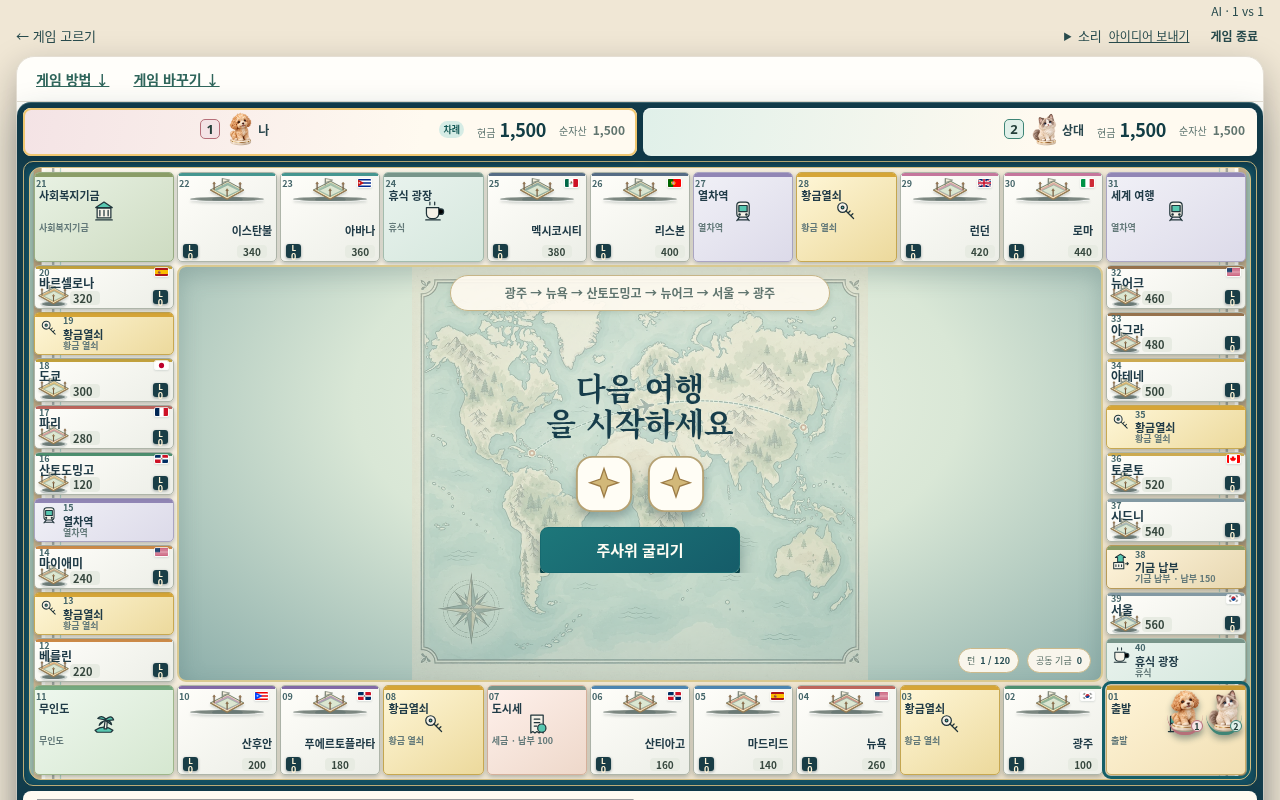
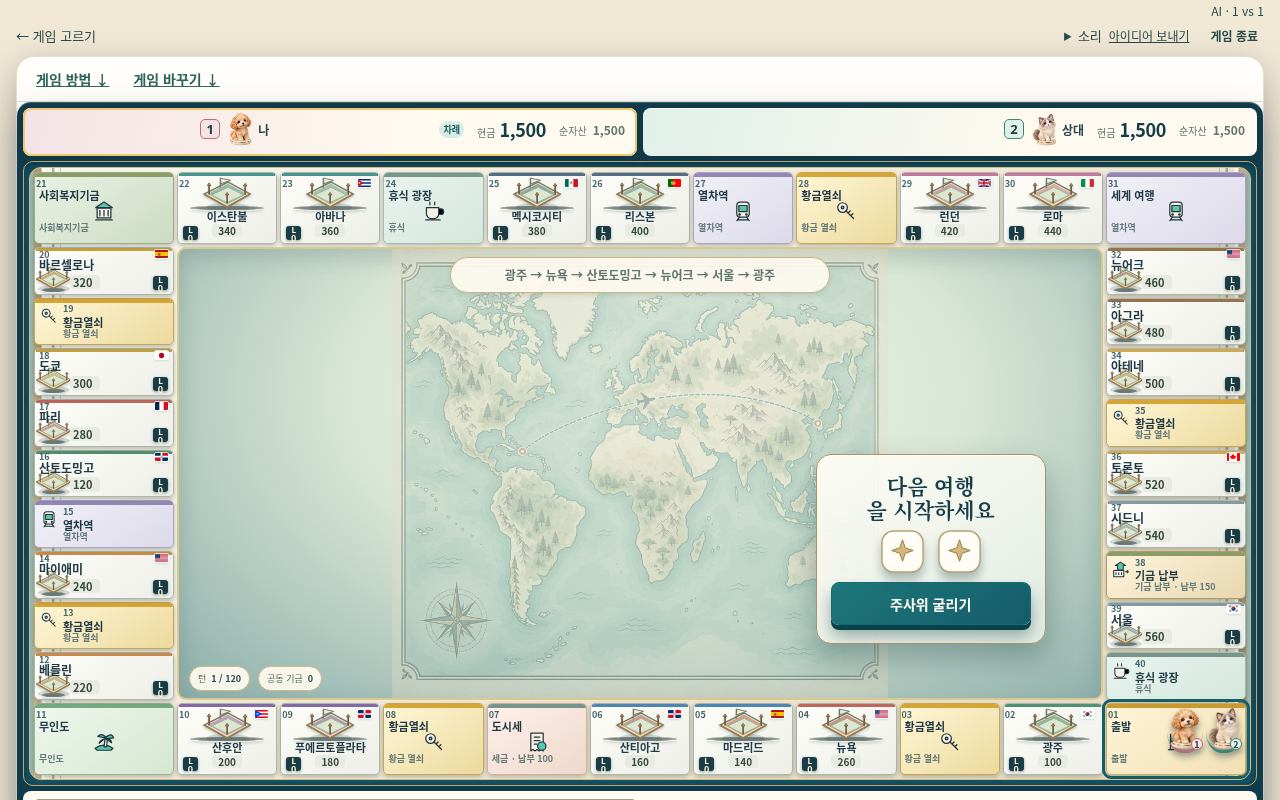
Dock dice on map and prepare equalized 32-cell board

Changed region(s): [[0.0, 0.2188, 1.0, 0.9688]]

diff --git a/src/app/marble-stage-redesign.css b/src/app/marble-stage-redesign.css
@@ -35,6 +35,16 @@
   background:#99b7aa url('/images/marble/backing-board.svg') center/cover;
   border-color:#d4bd81;
 }
+:is(.marble-premium,.marble-native-team).is-modern .mp-board-grid--32 {
+  width:min(100%,calc(100svh * 1.39),1220px); max-width:none;
+  height:clamp(560px,calc(var(--mp-available-height,650px) - 61px),710px);
+  margin:auto; aspect-ratio:auto; gap:3px; padding:4px;
+  grid-template-columns:clamp(105px,12%,135px) repeat(7,minmax(0,1fr)) clamp(105px,12%,135px);
+  grid-template-rows:clamp(68px,11%,88px) repeat(7,minmax(0,1fr)) clamp(68px,11%,88px);
+  background:#99b7aa url('/images/marble/backing-board.svg') center/cover;
+  border-color:#d4bd81;
+}
+:is(.marble-premium,.marble-native-team).is-modern .mp-board-grid--32 .mp-board-center { grid-column:2/9; grid-row:2/9; }
 :is(.marble-premium,.marble-native-team).is-modern .mp-tile { border-radius:5px; padding:2px 4px; box-shadow:inset 0 1px #fff,0 2px 4px #0c273343; }
 :is(.marble-premium,.marble-native-team).is-modern .mp-tile[data-marble-owner] { border-width:1px; }
 :is(.marble-premium,.marble-native-team).is-modern .mp-tile[data-marble-owner]:not([data-marble-owner="bank"]) { box-shadow:inset 0 -4px var(--mp-owner-color),0 2px 4px #0c273343; }
@@ -92,6 +102,7 @@
 }
 @media (max-width:1099px) {
   .marble-premium.is-modern .mp-board-grid--40 { min-width:780px; }
+  .marble-premium.is-modern .mp-board-grid--32 { min-width:780px; }
   .marble-premium.is-modern .mp-board-panel { overflow:auto; }
 }
 @media (max-width:680px) {
@@ -128,6 +139,7 @@
 .marble-native-team.marble-team-board .mt-bank dd { font-size:12px; }
 .marble-native-team.marble-team-board .mt-banks { width:100%; max-width:none; gap:6px; }
 .marble-native-team.marble-team-board .mp-board-grid--40 { width:100%; max-width:none; height:clamp(440px,calc(100svh - 235px),680px); grid-template-columns:clamp(105px,13%,140px) repeat(9,minmax(0,1fr)) clamp(105px,13%,140px); grid-template-rows:clamp(70px,13%,92px) repeat(9,minmax(0,1fr)) clamp(70px,13%,92px); gap:3px; padding:4px; background:#99b7aa url('/images/marble/backing-board.svg') center/cover; border-color:#d4bd81; }
+.marble-native-team.marble-team-board .mp-board-grid--32 { height:clamp(520px,calc(100svh - 195px),710px); }
 .marble-native-team.marble-team-board .mp-center-stage { bottom:13%; }
 .marble-native-team.marble-team-board .mp-center-stage.mp-stage--roll { bottom:25%; }
 .marble-native-team.marble-team-board .mp-board-center .mp-ownership-key { display:none; }
@@ -139,6 +151,7 @@
   .marble-native-team.marble-team-board .mt-play-surface { min-width:0; }
   .marble-native-team.marble-team-board .mp-board-panel { min-width:0; max-width:100%; box-sizing:border-box; overflow:auto; }
   .marble-native-team.marble-team-board .mp-board-grid--40 { min-width:780px; }
+  .marble-native-team.marble-team-board .mp-board-grid--32 { min-width:780px; }
 }
 @media (max-width:680px) {
   .marble-native-team.marble-team-board .mt-banks { grid-template-columns:1fr 1fr; }
@@ -178,8 +191,8 @@
 .marble-native-team.marble-team-board .mt-bank.is-current { background:#fff0c8; }
 .marble-native-team.marble-team-board .mt-bank-A { background:#e6f2e9; }
 .marble-native-team.marble-team-board .mt-bank-B { background:#f5e8eb; }
-.marble-native-team.marble-team-board .mp-board-grid--40 { grid-template-rows:90px repeat(9,minmax(0,1fr)) 90px; }
-.marble-premium.is-modern .mp-board-grid--40 { grid-template-rows:90px repeat(9,minmax(0,1fr)) 90px; }
+.marble-native-team.marble-team-board .mp-board-grid--40 { grid-template-rows:72px repeat(9,minmax(0,1fr)) 72px; }
+.marble-premium.is-modern .mp-board-grid--40 { grid-template-rows:72px repeat(9,minmax(0,1fr)) 72px; }
 :is(.marble-premium,.marble-native-team).is-modern .mp-property-tile-copy .mp-tile-name { overflow-wrap:anywhere; word-break:normal; }
 :is(.marble-premium,.marble-native-team).is-modern .mp-tile--horizontal .mp-property-tile-copy .mp-tile-name { max-height:2.15em; overflow:hidden; }
 /* On the narrow edges, the name owns its own full-width row. */
@@ -195,6 +208,11 @@
 :is(.marble-premium,.marble-native-team).is-modern .mp-tile--horizontal .mp-property-tile-art { max-height:48%; }
 :is(.marble-premium,.marble-native-team).is-modern .mp-property-tile-art .mp-property-art-image { transform:scale(1.22); transform-origin:center bottom; }
 :is(.marble-premium,.marble-native-team).is-modern .mp-tile--horizontal .mp-property-tile-art .mp-property-art-image { transform:scale(1.72); }
+:is(.marble-premium,.marble-native-team).is-modern .mp-tile--horizontal.mp-kind-property .mp-property-tile-view { display:flex; flex-direction:column; align-items:stretch; justify-content:center; gap:1px; }
+:is(.marble-premium,.marble-native-team).is-modern .mp-tile--horizontal.mp-kind-property .mp-property-tile-art { flex:0 0 20px; height:20px; max-height:20px; }
+:is(.marble-premium,.marble-native-team).is-modern .mp-tile--horizontal.mp-kind-property .mp-property-tile-copy { display:flex; flex-direction:column; align-items:center; justify-content:flex-end; flex:0 0 auto; height:auto; min-height:0; gap:1px; }
+:is(.marble-premium,.marble-native-team).is-modern .mp-tile--horizontal.mp-kind-property .mp-property-tile-copy .mp-tile-name { flex:none; max-height:23px; line-height:1.05; }
+:is(.marble-premium,.marble-native-team).is-modern .mp-tile--horizontal.mp-kind-property .mp-property-tile-copy .mp-tile-economy { flex:none; height:14px; line-height:14px; }
 :is(.marble-premium,.marble-native-team).is-modern :is(.mp-tile--west,.mp-tile--east) .mp-property-tile-art .mp-property-art-image { transform:scale(1.4); }
 :is(.marble-premium,.marble-native-team).is-modern .mp-center-stage.mp-stage--moving { bottom:28%; display:flex; justify-content:center; width:min(52%,360px); padding:12px; border:0; background:#fff9ebdb; box-shadow:0 9px 20px #16383f35; text-align:center; }
 :is(.marble-premium,.marble-native-team).is-modern .mp-moving-status { display:grid; justify-items:center; gap:8px; }
@@ -215,4 +233,16 @@
 @media (max-width:680px) {
   :is(.marble-premium,.marble-native-team).is-modern .mp-center-stage.mp-stage--roll,
   :is(.marble-premium,.marble-native-team).is-modern .mp-center-stage.mp-stage--moving { right:10px; bottom:10px; left:10px; width:auto; }
+}
+@media (min-width:681px) {
+  :is(.marble-premium,.marble-native-team).is-modern .mp-center-stage.mp-stage--roll {
+    right:6%; bottom:12%; left:auto; width:230px; max-width:36%; min-height:190px; gap:7px;
+    padding:14px; transform:none; border:1px solid #ac925f; border-radius:15px;
+    background:linear-gradient(145deg,#fffdf5ef,#e6f0e7e8); box-shadow:0 14px 30px #143b4255,inset 0 1px #fff;
+  }
+  :is(.marble-premium,.marble-native-team).is-modern .mp-center-stage.mp-stage--roll > h2 { max-width:none; font-size:21px; }
+  :is(.marble-premium,.marble-native-team).is-modern .mp-center-stage.mp-stage--roll .mp-die { width:47px; height:47px; }
+  :is(.marble-premium,.marble-native-team).is-modern .mp-center-stage.mp-stage--roll .mp-action-primary,
+  .marble-native-team.marble-team-board .mp-center-stage.mp-stage--roll .mt-primary { min-width:0; width:100%; min-height:43px; font-size:14px; }
+  :is(.marble-premium,.marble-native-team).is-modern .mp-map-hud { right:auto; left:10px; }
 }

diff --git a/src/app/MarbleCityTile.tsx b/src/app/MarbleCityTile.tsx
@@ -17,8 +17,9 @@ export function MarbleCityTile({ tile, index, tileCount, position, language, rou
 }) {
   const kind=String(tile.kind??'rest'), name=String(record(tile.name)[language]??record(tile.name).ko??''), group=String(tile.group??'');
   const owner=isSeat(tile.owner)?tile.owner:null;
-  const edge=tileCount===40?(position[1]===1||position[1]===11?'mp-tile--horizontal':position[0]===1?'mp-tile--west':'mp-tile--east'):'';
-  const isKey=modern&&[2,7,12,18,27,34].includes(index);
+  const boardSide=tileCount===32||tileCount===40?tileCount/4+1:0;
+  const edge=boardSide?(position[1]===1||position[1]===boardSide?'mp-tile--horizontal':position[0]===1?'mp-tile--west':'mp-tile--east'):'';
+  const isKey=modern&&kind==='event';
   const symbol=isKey||kind==='event'?'key':kind==='fund-deposit'?'fund-pay':kind;
   const art=cityArtNames[String(record(tile.name).ko??'')],flag=kind==='property'?cityFlag(record(tile.name)):null;
   const building=buildingName(num(tile.houses),language,modern);
@@ -26,7 +27,7 @@ export function MarbleCityTile({ tile, index, tileCount, position, language, rou
     ? `${name}, ${owner?copy(language,`소유자 ${seatLabel(owner)}`,`Dueño ${seatLabel(owner)}`):copy(language,'미소유','Sin dueño')}, ${copy(language,`매입 ${num(tile.price)}, 임대 ${rentValue(tile,modern)}`,`compra ${num(tile.price)}, renta ${rentValue(tile,modern)}`)}${building?`, ${building}`:''}${record(tile.rentModifiers).festival?copy(language,', 도시 축제: 다음 상대 방문 통행료 2배, 1회',', Festival: próxima visita rival, renta doble, un uso'):''}${record(tile.rentModifiers).blackout?copy(language,', 정전: 다음 카드 소유자 방문 통행료 절반, 1회',', Apagón: próxima visita del titular, media renta, un uso'):''}`
     : `${name}, ${specialNames[kind]?.[language]??''}`;
   const seats=atSeats.filter(seat=>seat!==movingSeat);
-  return <article className={`mp-tile ${edge} mp-kind-${kind} ${isKey?'is-key':''} ${group?`mp-group-${group}`:''} ${owner?`is-owned-${owner}`:''} ${atSeats.length||movingSeat?'has-player':''} ${movingSeat?'is-moving':''} ${changed?'is-changed':''} ${pending?'is-pending':''} ${selected?'is-selected':''}`} style={{gridColumn:position[0],gridRow:position[1]} as CSSProperties} role="listitem" aria-label={aria} data-marble-owner={kind==='property'?owner??'bank':undefined} data-mp-edge={tileCount===40?`${position[0]===1?'left':position[0]===11?'right':''}${position[1]===1?'top':position[1]===11?'bottom':''}`:undefined}>
+  return <article className={`mp-tile ${edge} mp-kind-${kind} ${isKey?'is-key':''} ${group?`mp-group-${group}`:''} ${owner?`is-owned-${owner}`:''} ${atSeats.length||movingSeat?'has-player':''} ${movingSeat?'is-moving':''} ${changed?'is-changed':''} ${pending?'is-pending':''} ${selected?'is-selected':''}`} style={{gridColumn:position[0],gridRow:position[1]} as CSSProperties} role="listitem" aria-label={aria} data-marble-owner={kind==='property'?owner??'bank':undefined} data-mp-edge={boardSide?`${position[0]===1?'left':position[0]===boardSide?'right':''}${position[1]===1?'top':position[1]===boardSide?'bottom':''}`:undefined}>
     <div className="mp-tile-content">
       <div className="mp-tile-top"><span>{String(index+1).padStart(2,'0')}</span>{flag&&<img src={`/images/marble/flags/${flag}.svg`} alt="" aria-hidden="true" loading="lazy" decoding="async"/>}{owner&&<b className={`mp-owner mp-owner-${owner}`} title={seatLabel(owner)} aria-label={seatLabel(owner)}>{owner.slice(1)}</b>}</div>
       {kind==='property'?<div className="mp-property-tile-view">

diff --git a/src/app/MarbleTeamMap.tsx b/src/app/MarbleTeamMap.tsx
@@ -16,18 +16,19 @@ export function MarbleTeamMap({view, language, seatNames, selectedTile, onInspec
 }) {
  const state=view.publicState;
  const tiles=view.publicBoard.map((tile,index)=>({...tile,index,owner:state.properties[index]?.owner??null,houses:state.properties[index]?.houses??0,rentModifiers:state.modifiers[index]}));
+ const tileCount=tiles.length;
  const players=fourSeats,playerId='p1',phase=view.phase;
  const pos=state.positions[view.turn],lastMove=record(state.lastMove),lastMoveSequence=state.lastMove?.sequence??0;
  const seatLabel=(seat:FourSeat)=>seatNames[seat][language];
  const validSeat=(value:unknown):value is FourSeat=>fourSeats.includes(value as FourSeat);
  return (
-      <MarbleBoardShell tileCount={40} language={language}>
+      <MarbleBoardShell tileCount={tileCount} language={language}>
           {tiles.map((tile, index) => {
-            const position = marbleGridPosition(index, 40);
+            const position = marbleGridPosition(index, tileCount);
             if (!position) return null;
             const atSeats = players.filter(seat => !state.eliminated[seat] && num(displayPositions[seat]) === index);
             const movingSeat = traveler?.tile === index ? traveler.seat : null;
-            return <MarbleCityTile key={tile.index ?? index} tile={tile} index={index} tileCount={40} position={position} language={language} routeVersion={3} modern selected={selectedTile === index} pending={pos === index && phase === 'decision'} changed={changedProperties.includes(index)} atSeats={atSeats} movingSeat={movingSeat} travelerSequence={traveler?.seq} playerId={playerId} pawnForSeat={seat => state.pawns[seat]} seatLabel={seatLabel} onInspect={onInspect}/>;
+            return <MarbleCityTile key={tile.index ?? index} tile={tile} index={index} tileCount={tileCount} position={position} language={language} routeVersion={3} modern selected={selectedTile === index} pending={pos === index && phase === 'decision'} changed={changedProperties.includes(index)} atSeats={atSeats} travelerSequence={traveler?.seq} movingSeat={movingSeat} playerId={playerId} pawnForSeat={seat => state.pawns[seat]} seatLabel={seatLabel} onInspect={onInspect}/>;
           })}
           <div className="mp-board-center"><div className="mp-ownership-key"><span className="mp-key-group"/>{copy(language, '윗띠 · 색상군', 'Franja · grupo')}<span className="mp-key-owner"/>{copy(language, '테두리·기단 · 소유자 번호', 'Borde y base · número del dueño')}<span className="mp-money-key">{copy(language, '미소유 숫자 = 매입 · 소유 숫자 = 통행료', 'Sin dueño: compra · Con dueño: alquiler')}</span></div>
             <img className="mp-world-map" src="/images/marble/world-map-board.webp" alt="" aria-hidden="true" decoding="async"/>

diff --git a/src/app/MarbleBoard.tsx b/src/app/MarbleBoard.tsx
@@ -312,7 +312,7 @@ export default function MarbleBoard({ view: rawView, language, playerId, runActi
           })}
           <div className={`mp-board-center ${isLegacy ? 'mp-board-center--18' : ''}`}>
             <div className="mp-ownership-key"><span className="mp-key-group"/>{copy(language, '윗띠 · 색상군', 'Franja · grupo')}<span className="mp-key-owner"/>{copy(language, '테두리·기단 · 소유자 번호', 'Borde y base · número del dueño')}<span className="mp-money-key">{copy(language, '미소유 숫자 = 매입 · 소유 숫자 = 통행료', 'Sin dueño: compra · Con dueño: alquiler')}</span></div>
-            {tiles.length === 40 && <img className="mp-world-map" src="/images/marble/world-map-board.webp" alt="" aria-hidden="true" decoding="async"/>}
+            {tiles.length >= 32 && <img className="mp-world-map" src="/images/marble/world-map-board.webp" alt="" aria-hidden="true" decoding="async"/>}
             <div className="mp-center-route">{num(board.cityRouteVersion) >= 2 ? <span>{copy(language, '광주 → 뉴욕 → 산토도밍고 → 뉴어크 → 서울 → 광주', 'Gwangju → Nueva York → Santo Domingo → Newark → Seúl → Gwangju')}</span> : <><span>{copy(language, '광주 출발', 'Desde Gwangju')}</span><span className="mp-route-line" aria-hidden="true">↗</span><span>{copy(language, '세계 여행', 'Viaje mundial')}</span></>}</div>
             <div className="mp-map-hud"><span>{copy(language, '턴', 'Turno')} <b>{currentTurn} / 120</b></span>{modern && <span>{copy(language, '공동 기금', 'Fondo común')} <b>{moneyText(fund, language)}</b></span>}</div>
             {modern && <section className={`mp-center-stage mp-stage--${journeyInFlight ? 'moving' : phase}`} aria-label={copy(language, '현재 도착과 다음 행동', 'Llegada y acción actual')}>

diff --git a/src/app/MarbleCityTile.test.tsx b/src/app/MarbleCityTile.test.tsx
@@ -6,9 +6,9 @@ import { marbleEngine } from '../games/marble';
 
 describe('MarbleCityTile', () => {
   const board = marbleEngine.getPlayerView(marbleEngine.createInitialState(3), 'p1').board;
-  const render = (index:number, owner:null|'p1', level:number, language:'ko'|'es'='ko') => {
+  const render = (index:number, owner:null|'p1', level:number, language:'ko'|'es'='ko', tileCount=40) => {
     const tile = { ...board.tiles[index], owner, houses:level };
-    return renderToStaticMarkup(createElement(MarbleCityTile, { tile, index, tileCount:40, position:[1,2], language, routeVersion:3, modern:true, selected:false, pending:false, changed:false, atSeats:[], movingSeat:null, playerId:'p1', pawnForSeat:()=> 'fox' as const, seatLabel:()=>language==='ko'?'나':'Tú', onInspect:vi.fn() }));
+    return renderToStaticMarkup(createElement(MarbleCityTile, { tile, index, tileCount, position:[1,2], language, routeVersion:3, modern:true, selected:false, pending:false, changed:false, atSeats:[], movingSeat:null, playerId:'p1', pawnForSeat:()=> 'fox' as const, seatLabel:()=>language==='ko'?'나':'Tú', onInspect:vi.fn() }));
   };
   it('keeps title, price, owner, tier and artwork as separate readable data', () => {
     const bare = render(3,null,0);
@@ -21,5 +21,9 @@ describe('MarbleCityTile', () => {
     expect(built).toContain('data-marble-price-kind="rent"');
     expect(built).toContain('data-building-level="3"');
     expect(built).toContain('premium/cities/new-york');
+  });
+  it('uses the same edge zones for the 32 cell route',()=>{
+    expect(render(3,null,0,'ko',32)).toContain('mp-tile--west');
+    expect(render(3,null,0,'ko',32)).toContain('data-mp-edge="left"');
   });
 });

diff --git a/src/app/MarbleBoardShell.test.tsx b/src/app/MarbleBoardShell.test.tsx
@@ -4,8 +4,9 @@ import { describe, expect, it } from 'vitest';
 import { MarbleBoardShell } from './MarbleBoardShell';
 
 describe('MarbleBoardShell',()=>{
-  it('keeps both route sizes accessible in Korean and Spanish',()=>{
+  it('keeps each supported route size accessible in Korean and Spanish',()=>{
     expect(renderToStaticMarkup(createElement(MarbleBoardShell,{tileCount:40,language:'ko',children:createElement('span',null,'center')}))).toContain('총 40칸 보드');
+    expect(renderToStaticMarkup(createElement(MarbleBoardShell,{tileCount:32,language:'ko',children:createElement('span',null,'center')}))).toContain('mp-board-grid--32');
     expect(renderToStaticMarkup(createElement(MarbleBoardShell,{tileCount:18,language:'es',children:createElement('span',null,'centro')}))).toContain('mp-board-grid--18');
   });
 });

diff --git a/src/app/MarbleBoardShell.tsx b/src/app/MarbleBoardShell.tsx
@@ -3,7 +3,7 @@ import type { Language } from '../core/types';
 
 export function MarbleBoardShell({tileCount,language,children}:{tileCount:number;language:Language;children:ReactNode}) {
   return <section className="mp-board-panel" aria-label={language==='ko'?`${tileCount}칸 순환 보드`:`Tablero de ${tileCount} casillas`}>
-    <div className={`mp-board-grid ${tileCount===18?'mp-board-grid--18':'mp-board-grid--40'}`} role="list" aria-label={language==='ko'?`총 ${tileCount}칸 보드`:`Recorrido de ${tileCount} casillas`}>
+    <div className={`mp-board-grid mp-board-grid--${tileCount}`} role="list" aria-label={language==='ko'?`총 ${tileCount}칸 보드`:`Recorrido de ${tileCount} casillas`}>
       {children}
     </div>
   </section>;

diff --git a/docs/qa/marble-stage-redesign/README.md b/docs/qa/marble-stage-redesign/README.md
@@ -4,7 +4,7 @@ These are Chromium captures of the actual React game screens at device scale 1. 
 
 | Check | Evidence |
 | --- | --- |
-| Live 2 player and 4 player roll stages, 1280 × 800 | [2p](2p-stage-1280x800.png), [4p](4p-stage-1280x800.png) |
+| Live 2 player and 4 player roll stages | [2p 1280 × 800](2p-stage-1280x800.png), [4p 1280 × 800](4p-stage-1280x800.png), [2p 1440 × 900](2p-stage-1440x900.png), [4p 1440 × 900](4p-stage-1440x900.png) |
 | Purchase and build choices, 1280 × 800 | [2p purchase](2p-purchase-ko-1280x800.png), [2p build](2p-build-ko-1280x800.png), [4p purchase](4p-purchase-ko-1280x800.png), [4p build](4p-build-ko-1280x800.png) |
 | Vacant lot, house, apartment, landmark together | [Four stages](2p-levels-ko-1280x800.png) |
 | Real 120 rent transfer, settled receipt | [Rent](2p-rent-ko-1280x800.png) |
@@ -12,7 +12,7 @@ These are Chromium captures of the actual React game screens at device scale 1. 
 | Narrow screens | [2p 768](2p-purchase-ko-768x900.png), [4p 768](4p-build-ko-768x900.png), [2p 390](2p-purchase-ko-390x844.png), [4p 390](4p-build-ko-390x844.png) |
 | Live dice movement | [450 ms moving](motion-move-450ms.png), [2650 ms landed](motion-landed-2650ms.png) |
 
-The 1280 × 800 live boards occupy x=23–1257, y=161–786 in 2 player mode and x=10–1270, y=103–705 in 4 player mode. The narrow captures have no document-level horizontal overflow; the board itself scrolls horizontally, while the contextual action sheet stays in view at 390 px. During one live 9 second movement probe, both player cash displays remained at 1,500; no false zero occurred. At 450 ms the moving pawn and travel status were visible; at 2650 ms the pawn had landed and the purchase decision was visible. These observations verify the sampled frames, not all animation timing or every random outcome.
+The 1280 × 800 live boards occupy x=23–1257, y=161–786 in 2 player mode and x=10–1270, y=103–705 in 4 player mode. At 1440 × 900 the 2 player map artwork spans 1082 × 549 px. The dice dock sits at the map's right edge and the top/bottom tile heights have been reduced to give the map more height and bring all four edge rows closer in size. The narrow captures have no document-level horizontal overflow; the board itself scrolls horizontally, while the contextual action sheet stays in view at 390 px. During one live 9 second movement probe, both player cash displays remained at 1,500; no false zero occurred. At 450 ms the moving pawn and travel status were visible; at 2650 ms the pawn had landed and the purchase decision was visible. These observations verify the sampled frames, not all animation timing or every random outcome.
 
 The controlled captures reflect the current checked-in 40-cell economy. Historical mobile rule research and a separate logic implementation are pending integration, so these images are visual and interaction checkpoints rather than evidence of final historical prices or board count.
 
